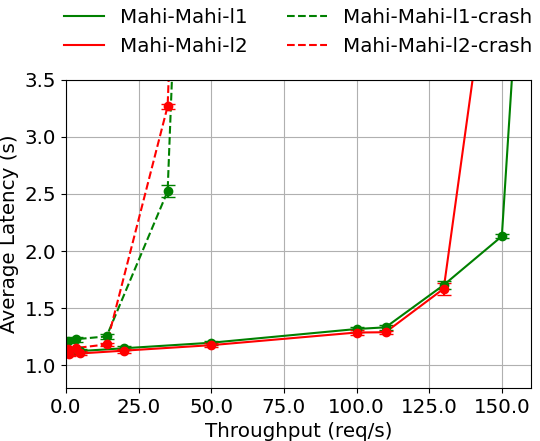
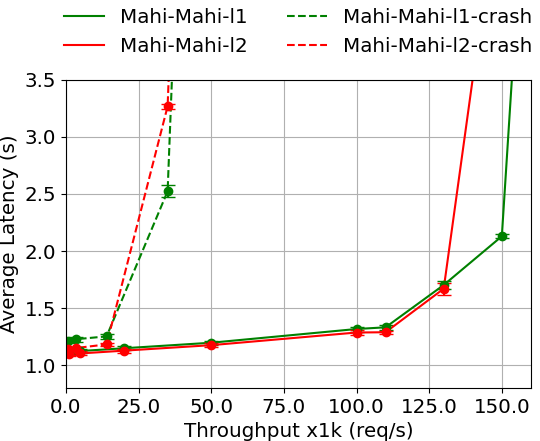
all files checked

Changed region(s): [[0.3259, 0.9433, 0.7704, 1.0]]

diff --git a/experiments/peformance-graphs/simple-graph.py b/experiments/peformance-graphs/simple-graph.py
@@ -441,7 +441,7 @@ plt.plot(mm_w5_l2_10_crash_throughput, mm_w5_l2_10_crash_latency, 'r--', label='
 plt.errorbar(mm_w5_l2_10_crash_throughput, mm_w5_l2_10_crash_latency, yerr=mm_w5_l2_10_crash_std, fmt='o', ecolor='r', capsize=5,mfc='r',  mec='r')
 
 
-plt.xlabel('Throughput (req/s)')
+plt.xlabel('Throughput x1k (req/s)')
 plt.ylabel('Average Latency (s)')
 plt.grid()
 plt.legend(loc='lower center', bbox_to_anchor=(0.5, 1.02), ncol=2, frameon=False)
